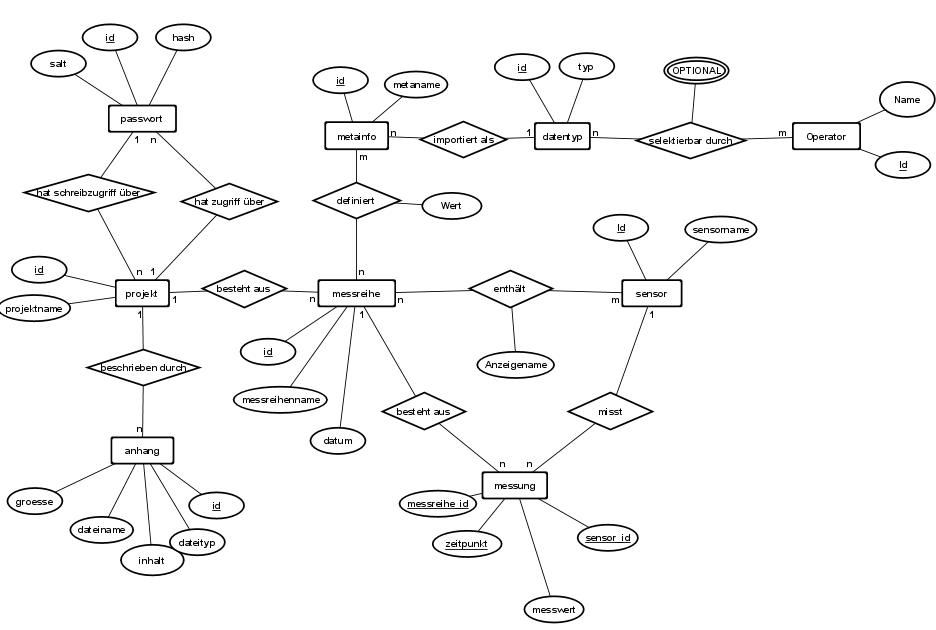
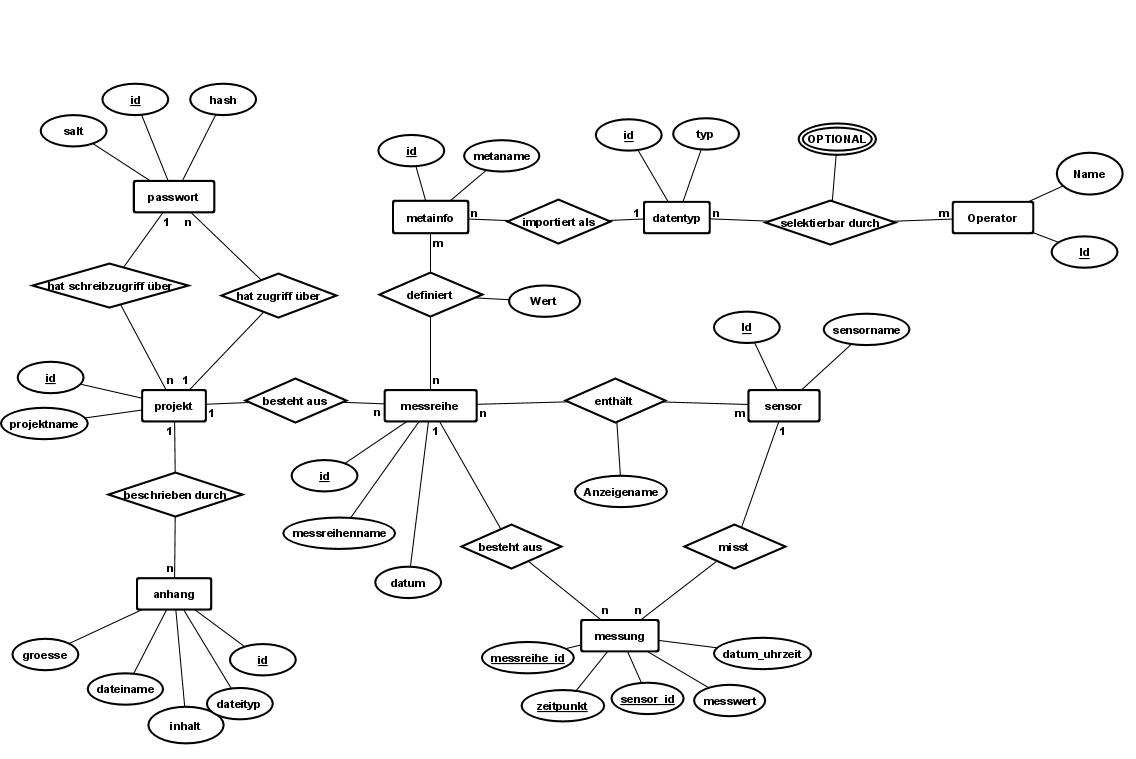
Datenbankschema geaendert. datum_uhrzeit zu messungen hinzugefuegt. salt in passwort wird jetzt als binary gespeichert. TODO in Parser auf neues Feld angepasst.

Changed region(s): [[0.0, 0.0302, 1.0, 0.9952], [0.2479, 0.7841, 0.2788, 0.8143]]

diff --git a/03_System/classes/Parser.php b/03_System/classes/Parser.php
@@ -166,7 +166,7 @@ class Parser {
                     "zeitpunkt" => $j,
                     "messwert" => str_replace(",", ".", $messspalten[$i][$j]),
                     // TODO:
-        //            "datum_und_zeit" => "STR_TO_DATE(\"" . messspalten[0][$j] . messspalten[1][$j] . "\"%d.%m.%Y %h:%i:%s\")",
+        //            "datum_uhrzeit" => "STR_TO_DATE(\"" . messspalten[0][$j] . messspalten[1][$j] . "\"%d.%m.%Y %h:%i:%s\")",
                 );
                 $this->$db->getIdBySelectOrInsert('messung', $messung);
             }
